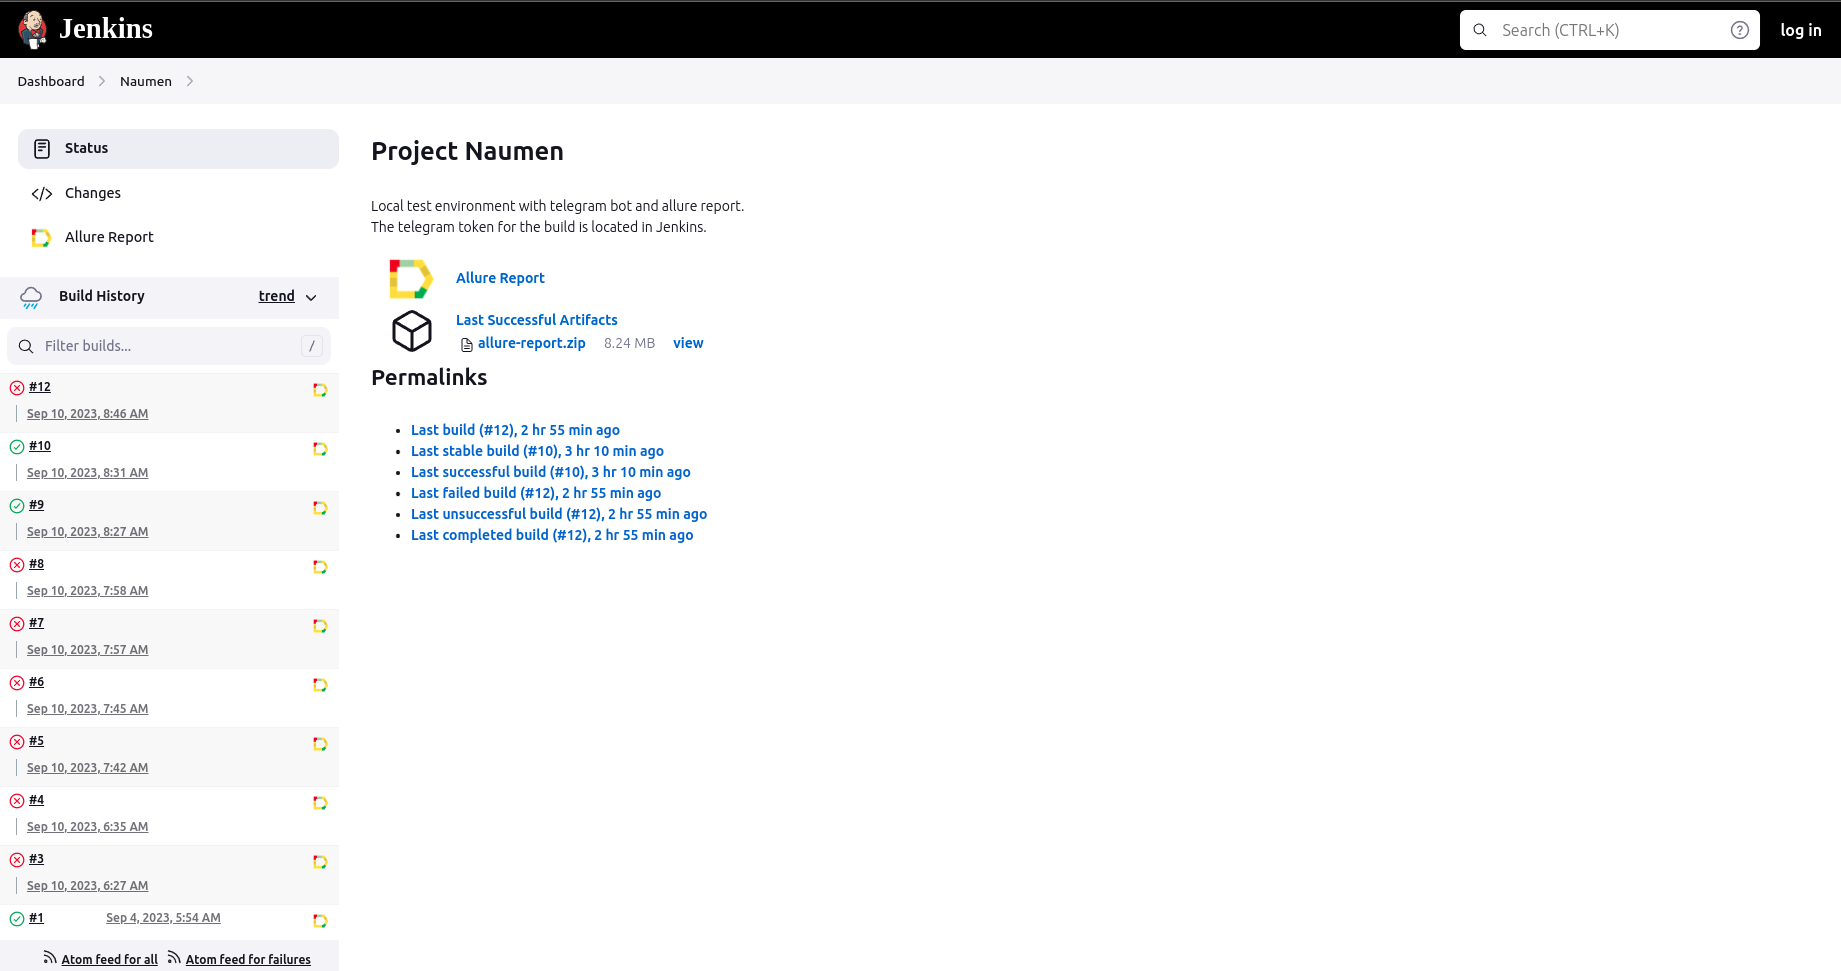
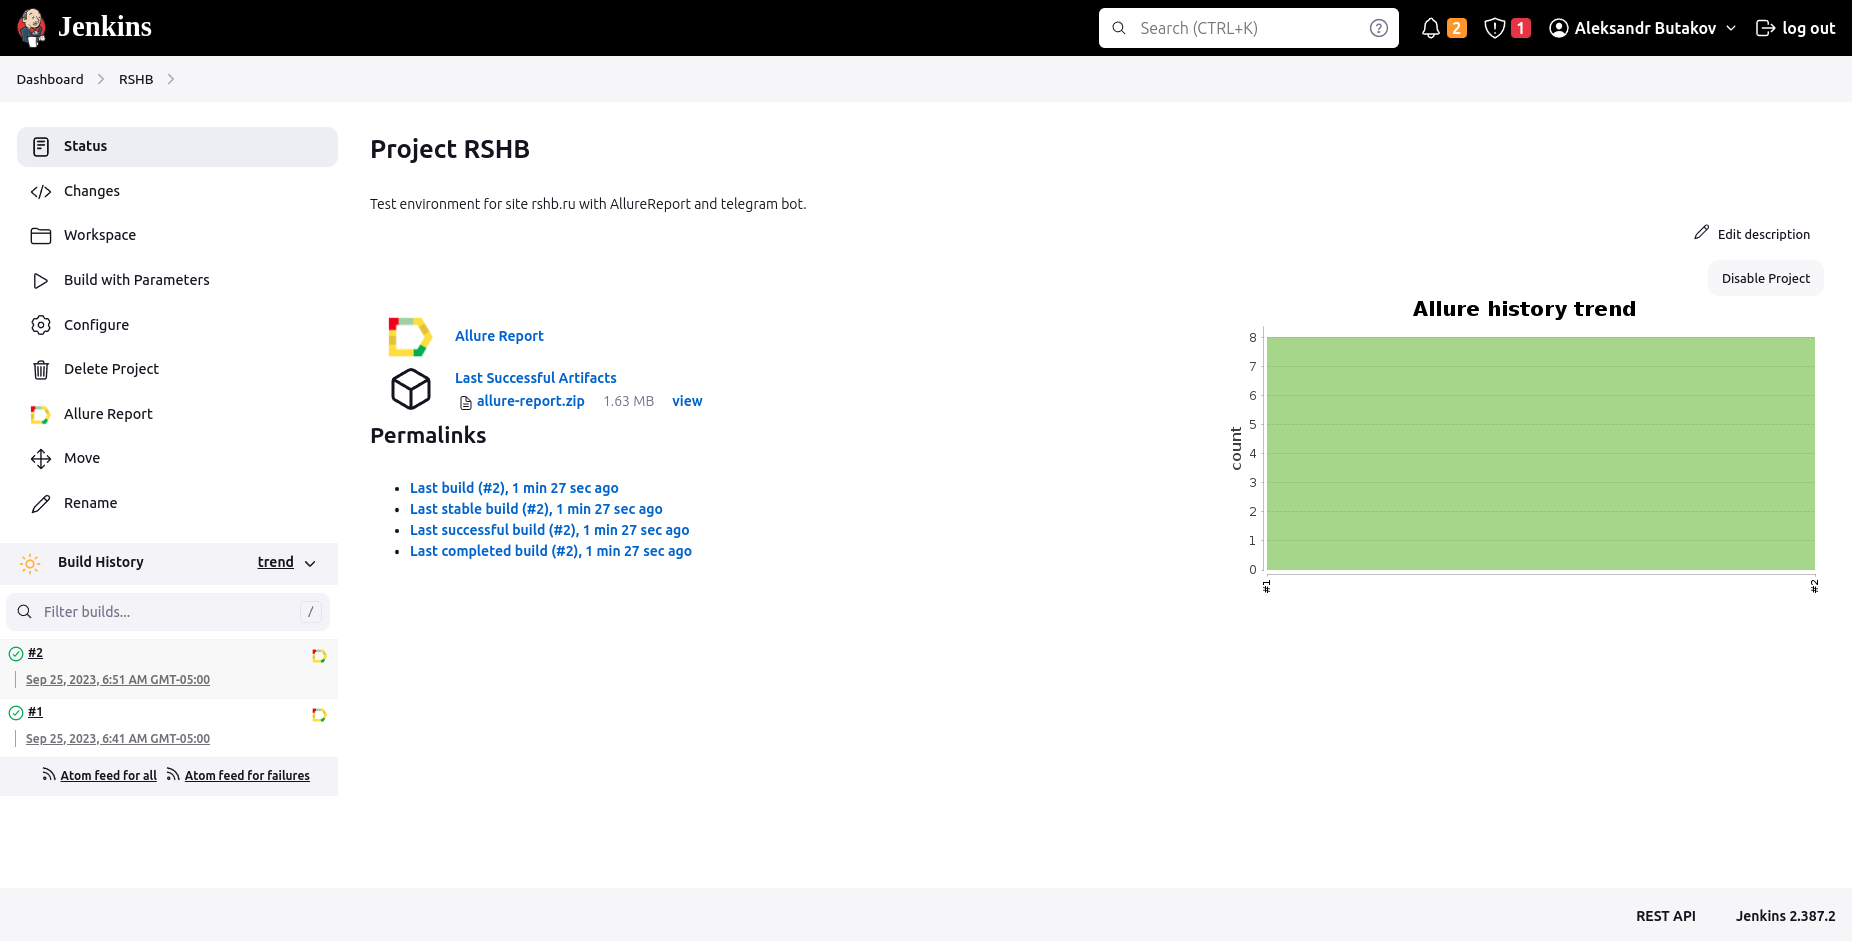
docs: change readme file

diff --git a/README.md b/README.md
@@ -1,5 +1,5 @@
-# Проект по автоматизации тестирования для Naumen
-## <a target="_blank" href="https://naumen.ru/">Веб сайт https://naumen.ru</a>
+# Проект по автоматизации тестирования для RSHB
+## <a target="_blank" href="https://rshb.ru/">Веб сайт https://rshb.ru</a>
 ## :o2: Содержание:
 
 - <a href="#shinto_shrine-общая-информация-о-тестовом-фреймворке">Общая информация о тестовом фреймворке</a>
@@ -38,6 +38,33 @@ API тестов.
 </p>
 
 ## :o2: Реализованны проверки UI and API запросов
+
+    1. Тест-кейс 1
+        - Открытие сайта rshb.ru
+        - Переход по ссылке меню: «Частным клиентам»
+        - Кликнуть ссылку: «Кредиты»
+       Рассчитать кредит
+        - выбрать тип платежа «Дифференцированный»
+        - установить сумму кредита 1 500 000 р
+        - выбрать срок кредита 30 месяцев
+        - кликнуть чекбоксы "Получаю зарплату на счёт в россельхозбанке" и
+        "Комплексная страховая защита"
+        - Сравнить что ставка = 15.5%, а ежемесячный платеж = 69 375 ₽
+
+    2. Тест-кейс 2
+        - Зайти на сайт rshb.ru
+        - Переход по ссылке меню: «Частным клиентам»
+        - Кликнуть ссылку: «Кредиты»
+       Рассчитать кредит
+        - тип платежа «Аннуитетный»
+        - установить сумму кредита 2 500 000 р
+        - выбрать срок кредита 40 месяцев
+        - кликнуть чекбокс «Получаю зарплату на счёт в россельхозбанке», остальные чекбоксы не должны быть активны
+        - Сравнить что ставка = 15.5%, а ежемесячный платеж = 80 424 ₽
+
+    3. Тест-кейс 3
+        - Проверка endpoint меню запросами API
+
 - Открытие сайта naumen.ru
 - Переход по ссылке меню: 'Продукты'
 - Переход по ссылке меню: 'Услуги'
@@ -47,7 +74,7 @@ API тестов.
 - Переход по ссылке меню: 'Пресс-центр'
 - Переход по ссылке меню: 'Карьера'
 
-### <a target="_blank" href="http://62.113.108.218:8888/job/Naumen/">Сборка в Jenkins</a>
+### <a target="_blank" href="http://62.113.108.218:8888/job/rshb/">Сборка в Jenkins</a>
 <p align="center">
   <img title="Jenkins Dashboard" src="images/screenshots/jenkins_dashboard.png">
 </p>
@@ -64,6 +91,7 @@ API тестов.
 ```bash
 gradle clean test
 gradle clean ui_test
+gradle clean api_test
 ```
 
 Удаленный запуск:
@@ -76,7 +104,7 @@ test
 ```
 
 ## :o2: Allure отчет    
-- ### <a target="_blank" href="http://62.113.108.218:8888/job/Naumen/12/allure/">Главный экран отчета</a>
+- ### <a target="_blank" href="http://62.113.108.218:8888/job/rshb/12/allure/">Главный экран отчета</a>
 <p align="center">
 <img title="Allure Overview Dashboard" src="images/screenshots/allure_main_page.png">
 </p>
